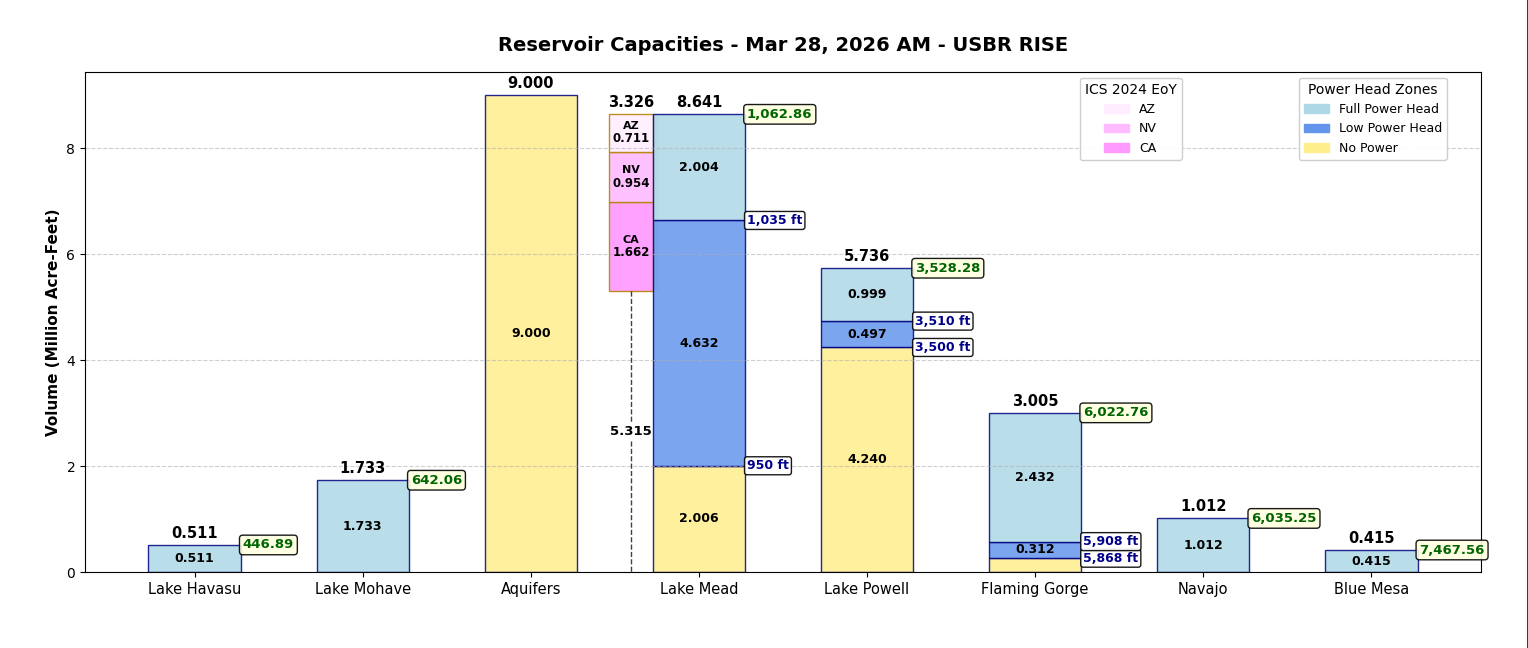
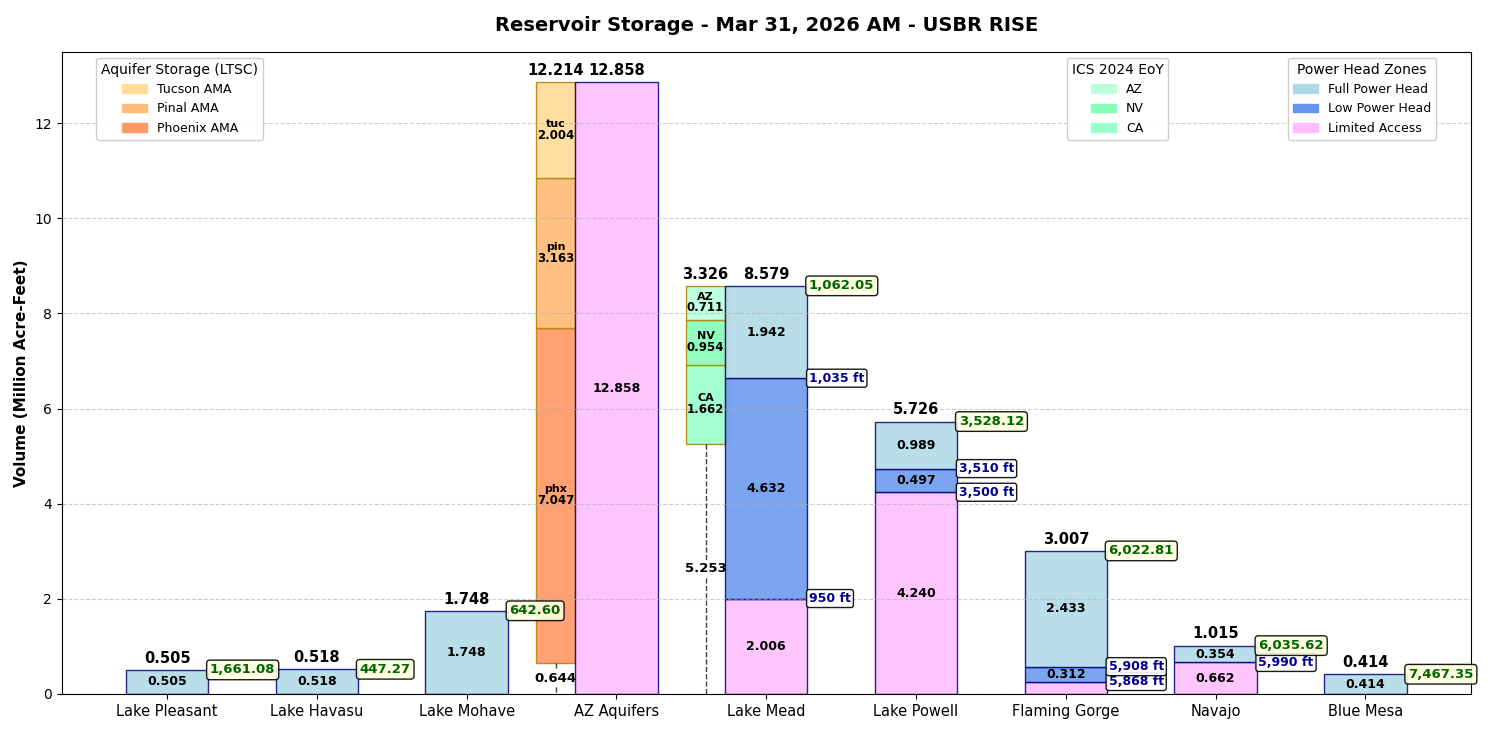
Reservoir color scheme, Navajo critical elevations

diff --git a/wxriver_ops.py b/wxriver_ops.py
@@ -37,9 +37,7 @@ def create_capacity_chart(
 
     if power_head_zones is None:
         power_head_zones = [
-            ('lightblue', 'Power Head'),
-            ('#FF746C', 'Lower Power Head'),
-            ('#FFEE8C', 'Non Power Head')
+            (Reservoir.high_power_pool_color, 'FIXME'),
         ]
 
     if reserved_zones is None:
@@ -49,8 +47,6 @@ def create_capacity_chart(
     capacities_maf = [r.active_capacity_af / 1_000_000 for r in reservoirs]
     elevations_feet = [r.elevation_feet for r in reservoirs]
 
-    max_maf = max(capacities_maf) if capacities_maf else 10
-
     fig = Figure(figsize=(14.8, 6.5), dpi=100)
     ax = fig.add_subplot(111)
 
@@ -58,7 +54,7 @@ def create_capacity_chart(
     reserved_width = 0.26
     main_width = 0.55
 
-    # RESERVED BARS
+    # ==================== RESERVED BARS (Aquifers) ====================
     for i, r in enumerate(reservoirs):
         reserved_parts = getattr(r, 'reserved_parts', [])
         if reserved_parts:
@@ -95,7 +91,7 @@ def create_capacity_chart(
 
             reserved_x_center = x_pos[i] - (main_width / 2) - (reserved_width / 2)
 
-            # Total reserved MAF just above the top of the reserved bar (restored)
+            # Total reserved MAF just above the top of the reserved bar
             ax.annotate(f'{total_reserved_maf:.3f}',
                         xy=(reserved_x_center, main_bar_maf),
                         xytext=(0, 3),
@@ -103,7 +99,7 @@ def create_capacity_chart(
                         ha='center', va='bottom',
                         fontsize=10.5, fontweight='bold', color='black')
 
-            # Gap below reserved bar
+            # Gap annotations
             gap_center_y = (main_bar_maf - total_reserved_maf) / 2
             gap_offset = 0.18
 
@@ -125,7 +121,7 @@ def create_capacity_chart(
                        bottom=main_bar_maf - total_reserved_maf,
                        color='gray', alpha=0.18, edgecolor=None)
 
-    # MAIN STACKED BARS
+    # ==================== MAIN STACKED BARS ====================
     for i, r in enumerate(reservoirs):
         crit_points = getattr(r, 'critical_elevations_feet', [])
         segments = []
@@ -142,9 +138,11 @@ def create_capacity_chart(
         if capacities_maf[i] > prev_cap_maf:
             segment_height_maf = capacities_maf[i] - prev_cap_maf
             if elevations_feet[i] > 0:
-                segments.append((segment_height_maf, Reservoir.high_power_pool_color, 'Above Highest Critical', capacities_maf[i], elevations_feet[i]))
+                segments.append((segment_height_maf, Reservoir.high_power_pool_color,
+                               'Above Highest Critical', capacities_maf[i], elevations_feet[i]))
             else:
-                segments.append((segment_height_maf, Reservoir.non_power_pool_color, 'Above Highest Critical', capacities_maf[i], elevations_feet[i]))
+                segments.append((segment_height_maf, Reservoir.non_power_pool_color,
+                               'Above Highest Critical', capacities_maf[i], elevations_feet[i]))
 
         current_bottom = 0.0
         for height_maf, color, label, total_cap_maf, elev_ft in segments:
@@ -185,30 +183,47 @@ def create_capacity_chart(
                         fontsize=9.5, color='darkgreen', fontweight='bold',
                         bbox=dict(boxstyle="round,pad=0.25", facecolor="lightyellow", alpha=0.9))
 
-    # ==================== TWO LEGENDS IN UPPER RIGHT ====================
-    # Power Head Zones Legend (slightly left so it doesn't go off edge)
+    # ==================== LEGENDS ====================
+
+    # 1. Power Head Zones Legend (upper right)
     power_patches = [mpatches.Patch(color=color, label=label) for color, label in power_head_zones]
-    leg1 = ax.legend(handles=power_patches,
-                     title="Power Head Zones",
-                     loc='upper right',
-                     bbox_to_anchor=(0.98, 1.0),   # moved slightly left
-                     fontsize=9,
-                     title_fontsize=10,
-                     framealpha=0.95)
+    leg_power = ax.legend(handles=power_patches,
+                          title="Power Head Zones",
+                          loc='upper right',
+                          bbox_to_anchor=(0.98, 1.0),
+                          fontsize=9,
+                          title_fontsize=10,
+                          framealpha=0.95)
 
-    # Reserved Legend - placed further right, closer to the Power Head legend
-    reserved_patches = [mpatches.Patch(color=color, label=label) for color, label in reserved_zones]
-    ax.legend(handles=reserved_patches,
-              title="ICS 2024 EoY",
-              loc='upper right',
-              bbox_to_anchor=(0.79, 1.0),   # moved further right, next to first legend
-              fontsize=9,
-              title_fontsize=10,
-              framealpha=0.95)
+    # 2. ICS / State Legend
+    state_patches = [mpatches.Patch(color=color, label=label) for color, label in reserved_zones]
+    leg_ics = ax.legend(handles=state_patches,
+                        title="ICS 2024 EoY",
+                        loc='upper right',
+                        bbox_to_anchor=(0.79, 1.0),
+                        fontsize=9,
+                        title_fontsize=10,
+                        framealpha=0.95)
 
-    ax.add_artist(leg1)
+    # 3. Aquifer Storage Legend (Upper LEFT) - using pastel orange colors
+    aquifer_patches = [
+        mpatches.Patch(color=lb.TUCSON_COLOR, label='Tucson AMA'),
+        mpatches.Patch(color=lb.PINAL_COLOR, label='Pinal AMA'),
+        mpatches.Patch(color=lb.PHX_COLOR, label='Phoenix AMA')
+    ]
+    leg_aquifer = ax.legend(handles=aquifer_patches,
+                            title="Aquifer Storage (LTSC)",
+                            loc='upper left',
+                            bbox_to_anchor=(0.02, 1.0),
+                            fontsize=9,
+                            title_fontsize=10,
+                            framealpha=0.95)
 
-    # Labels
+    # Restore the first two legends (critical step!)
+    ax.add_artist(leg_power)
+    ax.add_artist(leg_ics)
+
+    # Labels and layout
     ax.set_xlabel('')
     ax.set_ylabel('Volume (Million Acre-Feet)', fontsize=11, fontweight='bold')
     ax.set_title(title, fontsize=14, fontweight='bold', pad=15)
@@ -298,57 +313,75 @@ def create_inflow_outflow_chart(reservoirs, title="Reservoir Inflow vs Outflow")
     fig.subplots_adjust(bottom=0.32)
     return fig
 
-
 def datetime64_to_str(dt64) -> str:
     """Convert pandas datetime64 to 'Mar 28, 2026' format"""
     if pd.isna(dt64):
         return ""
-
-    # Convert to datetime and format
     dt = pd.to_datetime(dt64)
     return dt.strftime("%b %d, %Y")
+
 
 class ReservoirChartFrame(wx.Frame):
     def __init__(self, reservoirs, date_time, title="Reservoir Analysis Dashboard"):
         super().__init__(None, title=title, size=wx.Size(1580, 1020))
 
         self.reservoirs = reservoirs
+
+        # Main panel and notebook
         self.panel = wx.Panel(self)
         main_sizer = wx.BoxSizer(wx.VERTICAL)
 
-        # Capacity
+        self.notebook = wx.Notebook(self.panel)
+
+        # ==================== CAPACITY TAB ====================
+        self.cap_panel = wx.Panel(self.notebook)
+        cap_sizer = wx.BoxSizer(wx.VERTICAL)
+
+        date_str = datetime64_to_str(date_time)
+        cap_title = f'Reservoir Storage - {date_str} AM - USBR RISE'
+
         power_zones = [
             (Reservoir.high_power_pool_color, 'Full Power Head'),
             (Reservoir.low_power_pool_color, 'Low Power Head'),
-            (Reservoir.non_power_pool_color, 'No Power')
+            (Reservoir.non_power_pool_color, 'Limited Access')
         ]
+
         reserved_zones = [
             (lb.AZ_COLOR, 'AZ'),
             (lb.NV_COLOR, 'NV'),
             (lb.CA_COLOR, 'CA')
         ]
-        self.cap_panel = wx.Panel(self.panel)
-        cap_sizer = wx.BoxSizer(wx.VERTICAL)
-        date_str = datetime64_to_str(date_time)
-        title = f'Reservoir Capacities - {date_str} AM - USBR RISE'
-        self.capacity_fig = create_capacity_chart(reservoirs, title=title,
-                                                  power_head_zones=power_zones, reserved_zones=reserved_zones)
+
+        self.capacity_fig = create_capacity_chart(
+            reservoirs,
+            title=cap_title,
+            power_head_zones=power_zones,
+            reserved_zones=reserved_zones
+        )
+
         self.capacity_canvas = FigureCanvas(self.cap_panel, -1, self.capacity_fig)
         cap_sizer.Add(self.capacity_canvas, 1, wx.EXPAND | wx.ALL, border=8)
         self.cap_panel.SetSizer(cap_sizer)
 
-        # Inflow/Outflow
-        self.in_panel = wx.Panel(self.panel)
+        self.notebook.AddPage(self.cap_panel, "Capacity")
+
+        # ==================== INFLOW / OUTFLOW TAB ====================
+        self.in_panel = wx.Panel(self.notebook)
         in_sizer = wx.BoxSizer(wx.VERTICAL)
+
         self.inflow_fig = create_inflow_outflow_chart(reservoirs)
+
         self.inflow_canvas = FigureCanvas(self.in_panel, -1, self.inflow_fig)
         in_sizer.Add(self.inflow_canvas, 1, wx.EXPAND | wx.ALL, border=8)
         self.in_panel.SetSizer(in_sizer)
+
+        self.notebook.AddPage(self.in_panel, "Inflow / Outflow")
 
         # Buttons
         btn_sizer = wx.BoxSizer(wx.HORIZONTAL)
         save_cap_btn = wx.Button(self.panel, label="Save Capacity Chart as PNG")
         save_in_btn = wx.Button(self.panel, label="Save Inflow/Outflow Chart as PNG")
+
         save_cap_btn.Bind(wx.EVT_BUTTON, self.on_save_capacity)
         save_in_btn.Bind(wx.EVT_BUTTON, self.on_save_inflow)
 
@@ -357,9 +390,8 @@ class ReservoirChartFrame(wx.Frame):
         btn_sizer.Add(save_in_btn, 0, wx.ALL, 10)
         btn_sizer.AddStretchSpacer(1)
 
-        main_sizer.Add(self.cap_panel, 1, wx.EXPAND | wx.ALL, border=10)
-        main_sizer.Add(wx.StaticLine(self.panel), 0, wx.EXPAND | wx.LEFT | wx.RIGHT, border=15)
-        main_sizer.Add(self.in_panel, 1, wx.EXPAND | wx.ALL, border=10)
+        # Main layout
+        main_sizer.Add(self.notebook, 1, wx.EXPAND | wx.ALL, border=10)
         main_sizer.Add(btn_sizer, 0, wx.EXPAND | wx.TOP | wx.BOTTOM, border=12)
 
         self.panel.SetSizer(main_sizer)
@@ -369,31 +401,21 @@ class ReservoirChartFrame(wx.Frame):
         self.SetMinSize(wx.Size(1220, 820))
         self.Centre()
 
+        # Resize handling
         self.panel.Bind(wx.EVT_SIZE, self.on_panel_resize)
-
-        self.Layout()
         wx.CallAfter(self.force_resize)
         wx.CallLater(100, self.force_resize)
-        wx.CallLater(300, self.force_resize)
-
-        self.Bind(wx.EVT_SIZE, lambda e: e.Skip())
 
     def force_resize(self):
-        for canvas, p in [(self.capacity_canvas, self.cap_panel),
-                          (self.inflow_canvas, self.in_panel)]:
-            if canvas and p:
-                size = p.GetClientSize()
+        """Force canvases to resize properly inside notebook tabs"""
+        for canvas, panel in [(self.capacity_canvas, self.cap_panel),
+                              (self.inflow_canvas, self.in_panel)]:
+            if canvas and panel:
+                size = panel.GetClientSize()
                 if size[0] > 200 and size[1] > 150:
                     canvas.SetClientSize(size)
-                    try:
-                        canvas.SetSize(wx.Size(size[0], size[1]))
-                    except Exception:
-                        pass
                     canvas.draw()
                     canvas.Refresh()
-
-        self.panel.Layout()
-        self.SendSizeEvent()
 
     def on_panel_resize(self, event):
         wx.CallAfter(self.force_resize)
@@ -419,36 +441,13 @@ class ReservoirChartFrame(wx.Frame):
                     wx.MessageBox(str(e), "Save Error", wx.OK | wx.ICON_ERROR)
 
 
-if __name__ == "__main__":
-    '''
-    class Reservoir:
-        def __init__(self, name, elevation_feet, active_capacity_af
-,
-                     reserved_parts=None, critical_elevations_feet=None,
-                     inflow_parts=None, outflow_parts=None):
-            self.name = name
-            self.elevation_feet = elevation_feet
-            self.intake_elevation_feet = 0
-            self.active_capacity_af = active_capacity_af
-            self.reserved_parts = reserved_parts or []
-            self.critical_elevations_feet = critical_elevations_feet or []
-            self.inflow_parts = inflow_parts or []
-            self.outflow_parts = outflow_parts or []
+# Keep your existing create_capacity_chart and create_inflow_outflow_chart functions unchanged
+# (They are already defined above in your original code)
 
-        
-        Reservoir("Lake Test", 1075.5, 9500000,
-                  reserved_parts=[("SNWA", 1200000, '#1f77b4'),
-                                 ("Metropolitan", 1100000, '#ff7f0e'),
-                                 ("IID", 1000000, '#2ca02c')],
-                  critical_elevations_feet=[("Lower Turbine", 950, 2005585, 'red'),
-                                 ("Upper Turbine", 1035, 6637508, 'darkred')],
-                  inflow_parts=[("Actual so far", 8500, '#2ca02c'),
-                              ("Projected Apr", 4500, '#98fb98')],
-                  outflow_parts=[("Actual so far", 7200, '#d62728'),
-                               ("Projected Apr", 3800, '#ff9896')]),
-        '''
+if __name__ == "__main__":
     lake_pleasant = LakePleasant()
     lake_powell = LakePowell()
+
     reservoirs = [
         lake_pleasant,
         LakeHavasu(),

diff --git a/reservoirs/navajo.py b/reservoirs/navajo.py
@@ -39,15 +39,15 @@ class Navajo(Reservoir):
         self.dead_pool_af = 0
         # Bottom 5586.00
 
-        self.full_feet = 0
-        self.full_af = 0
+        self.full_feet = 6085
+        self.full_af = 1701300
 
         # Critical
         self.power_head_target_feet = 0
         self.power_head_target_af = 0
 
-        self.power_head_min_feet = 0
-        self.power_head_min_af = 0
+        self.power_head_min_feet = 5990 # Elevation where pumps to NAIP/Domestic stop working
+        self.power_head_min_af = 661800
 
         self.turbine_intake_feet = 0
         self.turbine_intake_af = 0

diff --git a/colorado/lb.py b/colorado/lb.py
@@ -58,9 +58,13 @@ AQUIFER = 'Aquifer'
 AQUIFER_RELEASE = 'Aquifer Release'
 AQUIFER_INFLOW = 'Aquifer Inflow'
 
-CA_COLOR = '#ff99ff'
-NV_COLOR = '#ffbbff'
-AZ_COLOR = '#ffeeff'
+# CA_COLOR = '#ff99ff'
+# NV_COLOR = '#ffbbff'
+# AZ_COLOR = '#ffeeff'
+
+CA_COLOR = '#99ffcc'    # Soft mint green (California)
+NV_COLOR = '#88ffbb'    # Light seafoam green (Nevada)
+AZ_COLOR = '#bbffdd'    # Pale pastel green (Arizona)
 
 PHX_COLOR   = '#ff9966'
 PINAL_COLOR = '#ffbb77'

diff --git a/reservoirs/reservoir.py b/reservoirs/reservoir.py
@@ -31,7 +31,7 @@ from sheet import sheet
 class Reservoir:
     high_power_pool_color = "lightblue"
     low_power_pool_color = "cornflowerblue"
-    non_power_pool_color = '#FFEE8C'
+    non_power_pool_color = '#ffbbff'
     outflow_actual_color = 'red'
     outflow_projected_color = '#FF746C'
     inflow_actual_color = '#2ca02c'
